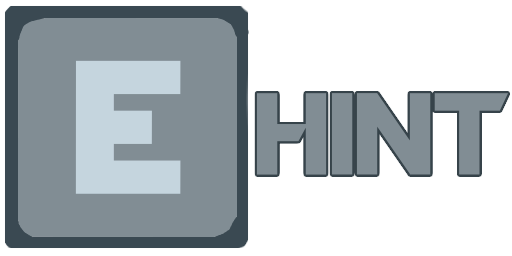
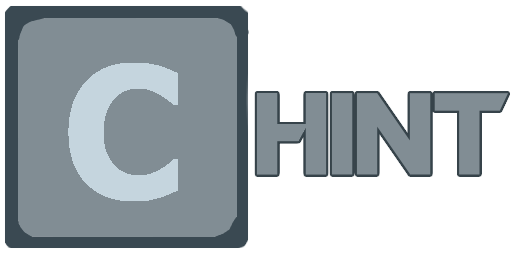
ヒントをcキーに変更,ゴール時とゴール演出時にノイズ音消す

Changed region(s): [[0.125, 0.2188, 0.375, 0.8125]]

diff --git a/BlockManager.cpp b/BlockManager.cpp
@@ -1681,6 +1681,7 @@ void BlockManager::AppearGoal()
 							cameraM->usingCamera->CameraShake(30, 1.0f);
 
 							isPopedGoal2 = true;
+							Sound::StopWave("tutu4.wav");
 						}
 						else
 						{
